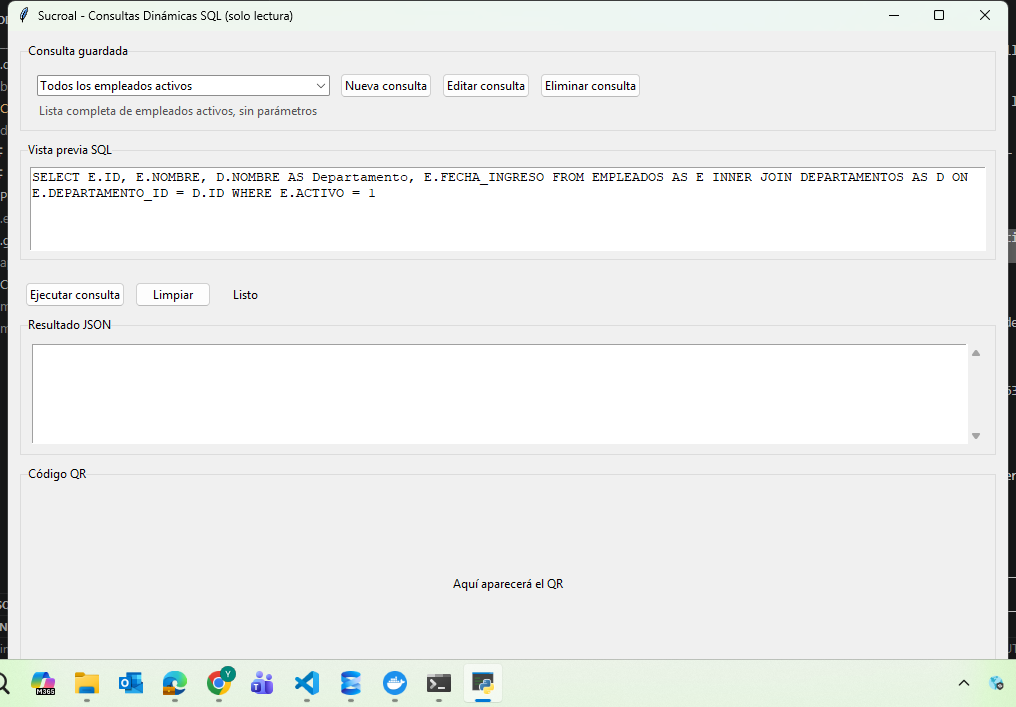
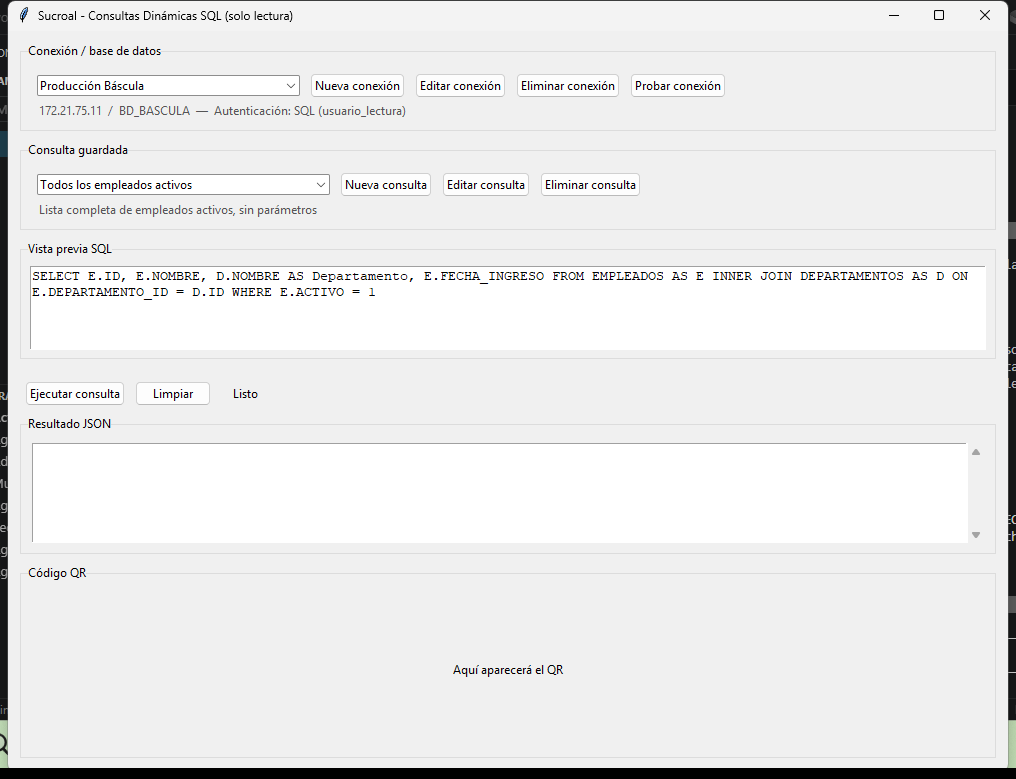
Recaptura screenshots del README con la ventana de conexión
- 01 ventana principal ahora incluye el selector y botones de conexión
- Agrega 02-nueva-conexion (editor de conexión con contraseña write-only)
- Renumera parámetros/resultado/nueva consulta/bloqueo a 03-06
- Actualiza referencias del README y elimina imágenes obsoletas

diff --git a/README.md b/README.md
@@ -146,6 +146,8 @@ equipo nuevo hay que reingresarlas una vez editando la conexión.
 
 Con **"Nueva conexión"** se abre un formulario para definir una conexión sin tocar código:
 
+![Formulario de conexión](assets/02-nueva-conexion.png)
+
 - **Nombre**: como aparecerá en el selector de conexiones (por ejemplo, "Producción Báscula").
 - **Driver ODBC**, **Servidor** y **Base de datos**: datos de conexión a SQL Server.
 - **Autenticación**: usuario SQL Server (usuario + contraseña) o autenticación de Windows
@@ -168,7 +170,7 @@ Al seleccionar una consulta con parámetros (por ejemplo, una que filtra por nú
 pedido o por nombre de departamento), la app genera automáticamente un campo por cada
 parámetro declarado, con el tipo correcto (texto, entero, decimal o fecha):
 
-![Parámetros dinámicos](assets/02-parametros.png)
+![Parámetros dinámicos](assets/03-parametros.png)
 
 Si dejas vacío un parámetro marcado como obligatorio, o escribes un valor que no
 corresponde al tipo (por ejemplo, letras en un campo entero), la app lo rechaza antes de
@@ -179,7 +181,7 @@ tocar la base de datos y te dice cuál es el problema.
 Al presionar **"Ejecutar consulta"**, el resultado aparece como JSON y, si esa consulta
 tiene marcada la opción "Generar QR", el código QR se genera a partir de ese mismo JSON:
 
-![Resultado y QR](assets/03-resultado-y-qr.png)
+![Resultado y QR](assets/04-resultado-y-qr.png)
 
 Si la consulta no devuelve filas, no hay nada que codificar: el panel del QR lo indica
 explícitamente ("Sin resultados: no hay datos para generar el QR") en vez de quedar en
@@ -190,7 +192,7 @@ blanco sin explicación.
 Con **"Nueva consulta"** se abre el formulario para definir una consulta desde cero, sin
 tocar código:
 
-![Formulario de nueva consulta](assets/04-nueva-consulta.png)
+![Formulario de nueva consulta](assets/05-nueva-consulta.png)
 
 - **Nombre**: como aparecerá en el selector de la ventana principal.
 - **Descripción**: texto corto que se muestra debajo del selector al elegirla.
@@ -217,7 +219,7 @@ Tanto al guardar como al ejecutar, cualquier intento de `INSERT`, `UPDATE`, `DEL
 `DROP`, `EXEC`, procedimientos, o varias sentencias separadas por `;`, se bloquea antes de
 tocar la base de datos:
 
-![Bloqueo de seguridad](assets/05-bloqueo-seguridad.png)
+![Bloqueo de seguridad](assets/06-bloqueo-seguridad.png)
 
 ## Funcionalidades
 